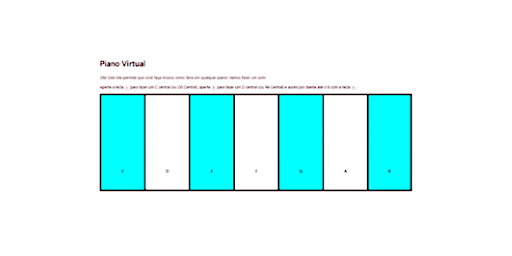
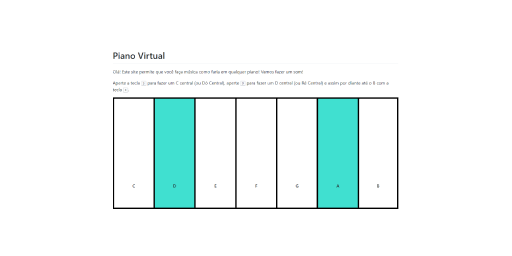
general fixes

Changed region(s): [[0.1875, 0.1875, 0.8125, 0.8438]]

diff --git a/docs/_sass/minima/_base.scss b/docs/_sass/minima/_base.scss
@@ -107,7 +107,7 @@ a {
   text-decoration: none;
 
   &:hover {
-    color: $text-color;
+    color: $brand-color;
     text-decoration: underline;
   }
 

diff --git a/docs/all-workshops/sintonia-com-js/README.md b/docs/all-workshops/sintonia-com-js/README.md
@@ -186,10 +186,10 @@ Lembre-se, você pode utilizar: [keycode.info](https://keycode.info).
 Como a pessoa vai saber a tecla que clicou? Vamos dar uma confirmação visual! Temos cada tecla em um elemento separado, então vamos mudar o fundo da tecla quando ela for atingida. Podemos fazer adicionando esta linha à nossa função `tocarNota()`:
 
 ```javascript
-document.getElementById(nota).style.background = 'aqua'.
+document.getElementById(nota).style.background = 'turquoise'.
 ```
 
-O que isso faz, é obter o elemento com o ID com o nome da variável nota. Se você olhar acima, eu defino o ID de cada `<span>` para ser o mesmo de sua nota correspondente. Ele então define o fundo para ser da cor 'aqua'.
+O que isso faz, é obter o elemento com o ID com o nome da variável nota. Se você olhar acima, eu defino o ID de cada `<span>` para ser o mesmo de sua nota correspondente. Ele então define o fundo para ser da cor 'turquoise'.
 
 Execute o código! O que acontece?
 
